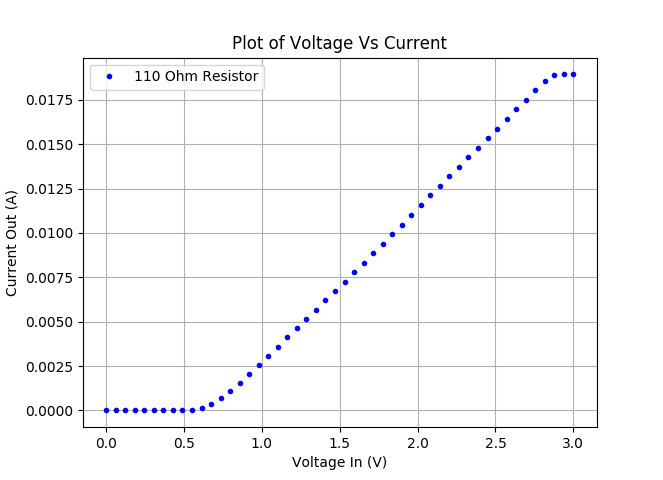
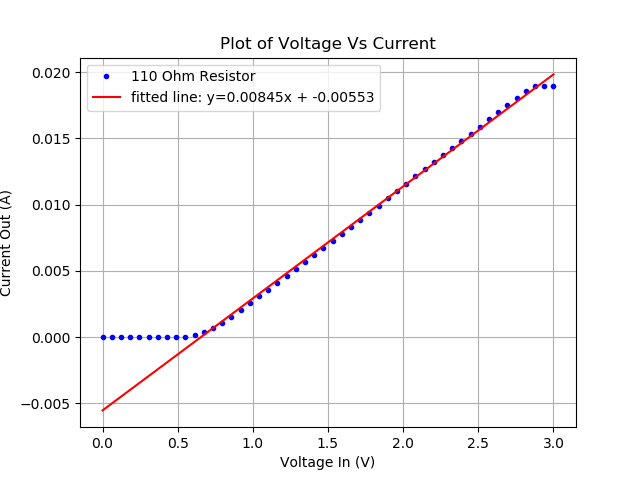
adding plots of 100-10K

diff --git a/lab 2/exp2graph100.py b/lab 2/exp2graph100.py
@@ -4,10 +4,13 @@
 
 import numpy as np
 import matplotlib.pyplot as plt
-
+from scipy import stats
 
 Vin = open('exp 2 110 resistor/Vin.txt', 'r').read().split()
-I10K = open('exp 2 110 resistor/I.txt', 'r').read().split()
+I100 = open('exp 2 110 resistor/I.txt', 'r').read().split()
+
+linear_i = []
+linear_v = []
 
 
 i = 0
@@ -17,18 +20,32 @@ for x in Vin:
     i = i+1
 
 i = 0
-for x in I10K:
+for x in I100:
     val = float(x)
-    I10K[i]= val
+    I100[i]= val
+    if Vin[i] > .5:
+        linear_i.append(val)
+        linear_v.append(Vin[i])
     i = i+1
-
 
 title = "Plot of Voltage Vs Current"
 xLabel = "Voltage In (V)"
 yLabel = "Current Out (A)"
 
+slope, intercept, r_value, p_value, std_err = stats.linregress(linear_v, linear_i)
+linear_v = np.array(linear_v)
 
-Data = plt.plot(Vin, I10K, 'bo', markersize=3, label="110 Ohm Resistor")
+von100 = (-1*intercept)/slope
+
+
+title = "Plot of Voltage Vs Current"
+xLabel = "Voltage In (V)"
+yLabel = "Current Out (A)"
+linear_v = np.array(linear_v)
+Vin = np.array(Vin)
+
+Data = plt.plot(Vin, I100, 'bo', markersize=3, label="110 Ohm Resistor")
+Data = plt.plot(Vin, (slope*Vin)+intercept, 'r', label="fitted line: y="+str(round(slope,5))+"x + " +str(round(intercept,5)))
 
 
 plt.legend()

diff --git a/lab 2/exp2graph1k.py b/lab 2/exp2graph1k.py
@@ -4,10 +4,13 @@
 
 import numpy as np
 import matplotlib.pyplot as plt
-
+from scipy import stats
 
 Vin = open('exp 2 1100 resistor/Vin.txt', 'r').read().split()
-I10K = open('exp 2 1100 resistor/I.txt', 'r').read().split()
+I1K = open('exp 2 1100 resistor/I.txt', 'r').read().split()
+
+linear_i = []
+linear_v = []
 
 
 i = 0
@@ -17,18 +20,30 @@ for x in Vin:
     i = i+1
 
 i = 0
-for x in I10K:
+for x in I1K:
     val = float(x)
-    I10K[i]= val
+    I1K[i]= val
+    if Vin[i] > .5:
+        linear_i.append(val)
+        linear_v.append(Vin[i])
     i = i+1
+
+slope, intercept, r_value, p_value, std_err = stats.linregress(linear_v, linear_i)
+linear_v = np.array(linear_v)
+
+von1k = (-1*intercept)/slope
+
+print(von1k)
 
 
 title = "Plot of Voltage Vs Current"
 xLabel = "Voltage In (V)"
 yLabel = "Current Out (A)"
+linear_v = np.array(linear_v)
+Vin = np.array(Vin)
 
-
-Data = plt.plot(Vin, I10K, 'bo', markersize=3, label="1100 Ohm Resistor")
+Data = plt.plot(Vin, I1K, 'bo', markersize=3, label="1100 Ohm Resistor")
+Data = plt.plot(Vin, (slope*Vin)+intercept, 'r', label="fitted line: y="+str(round(slope,5))+"x + " +str(round(intercept,5)))
 
 
 plt.legend()

diff --git a/lab 2/exp2graph10k.py b/lab 2/exp2graph10k.py
@@ -43,7 +43,7 @@ Vin = np.array(Vin)
 
 
 Data = plt.plot(Vin, I10K, 'bo', markersize=3, label="10K Ohm Resistor")
-Data = plt.plot(Vin, (slope*Vin)+intercept, 'r', label="fitted line: y="+str(slope)+"x + " +str(intercept))
+Data = plt.plot(Vin, (slope*Vin)+intercept, 'r', label="fitted line: y="+str(round(slope,5))+"x + " +str(round(intercept,7 )))
 
 
 plt.legend()
